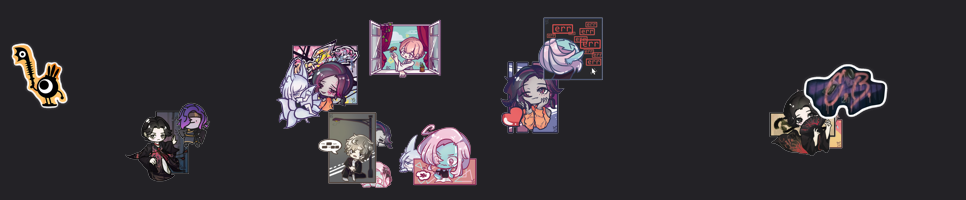
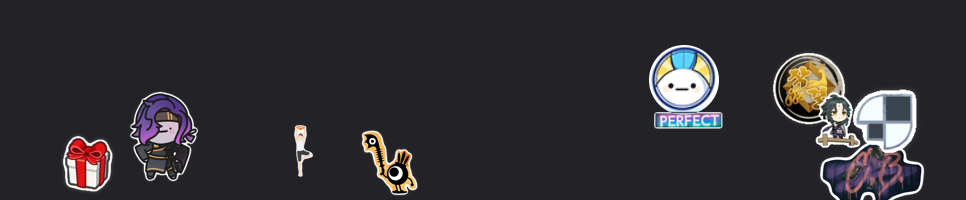
너무 겹치지 않게 수정

diff --git a/randomStickerTitle/main.py b/randomStickerTitle/main.py
@@ -4,20 +4,35 @@ from PIL import Image
 
 class TitleMaker:
     def __init__(self):
-        self.width, self.height = 966, 200
-        self.image = Image.new("RGBA", (self.width, self.height), "#232226")
+        self.width, self.height, self.resizeH = 966, 200, 80
+        self.image = Image.new("RGB", (self.width, self.height), "#232226")
+
+        self.posXs = [x for x in range(0,self.width,self.resizeH >> 1)][1:-2]
+        self.posYs = [x for x in range(0,self.height,self.resizeH >> 1)][1:-1]
+        self.posHistory = [(0,0)]
+
+    def getSticker(self,filename):
+        h = self.resizeH + random.choice([-20,0,0,0,20])
+        sticker = Image.open(filename)
+        sticker.thumbnail((sticker.width * h // sticker.height, h))
+        return sticker
+
+    def getRandPos(self):
+        x,y = 0,0
+        while (x,y) in self.posHistory:
+            x = random.choice(self.posXs)
+            y = random.choice(self.posYs)
+        else:
+            self.posHistory.append((x,y))
+
+        x += random.randint(0,10)
+        y += random.randint(0,10)
+        return (x,y)
 
     def putSticker(self, filename):
-        resizeH=80
-
-        sticker = Image.open(filename)
-        sticker.thumbnail((sticker.width * resizeH // sticker.height, resizeH))
-        
-        x = random.randint(0, self.width  - sticker.width)
-        y = random.randint(0, self.height - sticker.height)
-        
+        sticker = self.getSticker(filename)
         r, g, b, a = sticker.split()
-        self.image.paste(sticker, (x, y), mask=a)
+        self.image.paste(sticker, self.getRandPos(), mask=a)
     
     def save(self):
         self.image.save('res.png')
